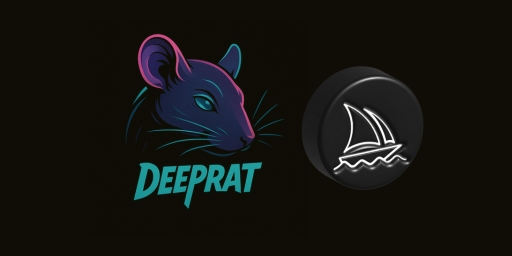
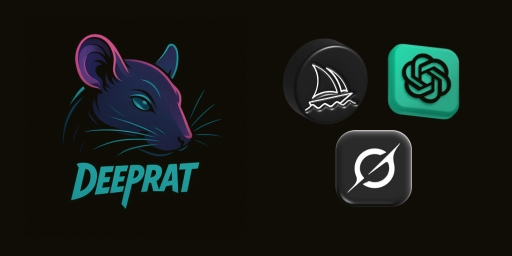
raw: change plans images

Changed region(s): [[0.125, 0.125, 0.5625, 0.8125], [0.5312, 0.1562, 0.9062, 0.8125], [0.1875, 0.5625, 0.2188, 0.5938]]

diff --git a/index.html b/index.html
@@ -343,7 +343,7 @@
         "3 meses": "R$180,00"
       }
     },
-    "GPT4 E Mid Journey": {
+    "DeepRat IA (MidJourney + GPT Plus + SuperGrok)": {
       "imagem": "static/midjourney.jpg",
       "chat_id": -1002100911888,
       "planos": {
@@ -373,9 +373,9 @@
       "chat_id": -1002667283364,
       "planos": {
         "1 mês": "R$25,00",
-        "3 meses": "R$80,00",
-        "6 meses": "R$100,00",
-        "12 meses": "R$150,00"
+        "3 meses": "R$70,00",
+        "6 meses": "R$140,00",
+        "12 meses": "R$180,00"
       }
     },
     "IPTV 2 TELAS": {
@@ -384,8 +384,8 @@
       "planos": {
         "1 mês": "R$40,00",
         "3 meses": "R$130,00",
-        "6 meses": "R$180,00",
-        "12 meses": "R$250,00"
+        "6 meses": "R$190,00",
+        "12 meses": "R$270,00"
       }
     }
   };
